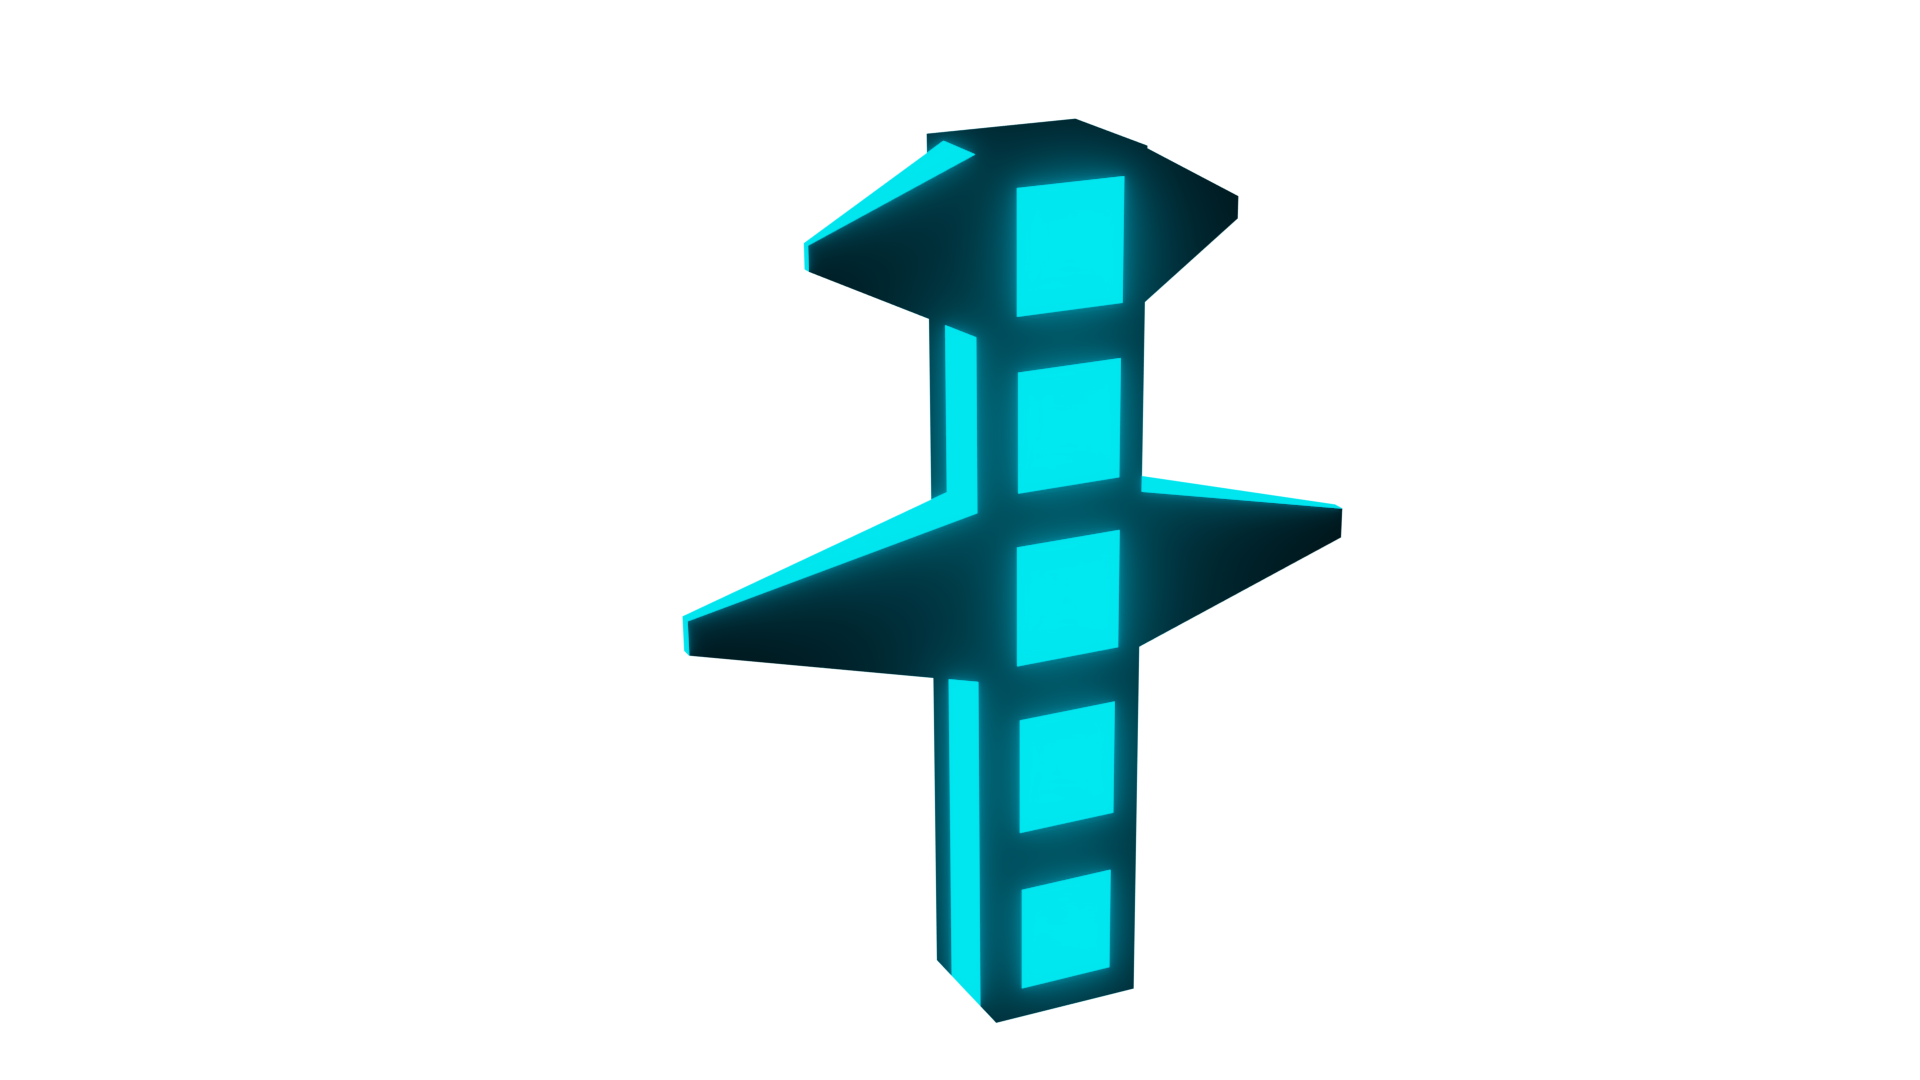
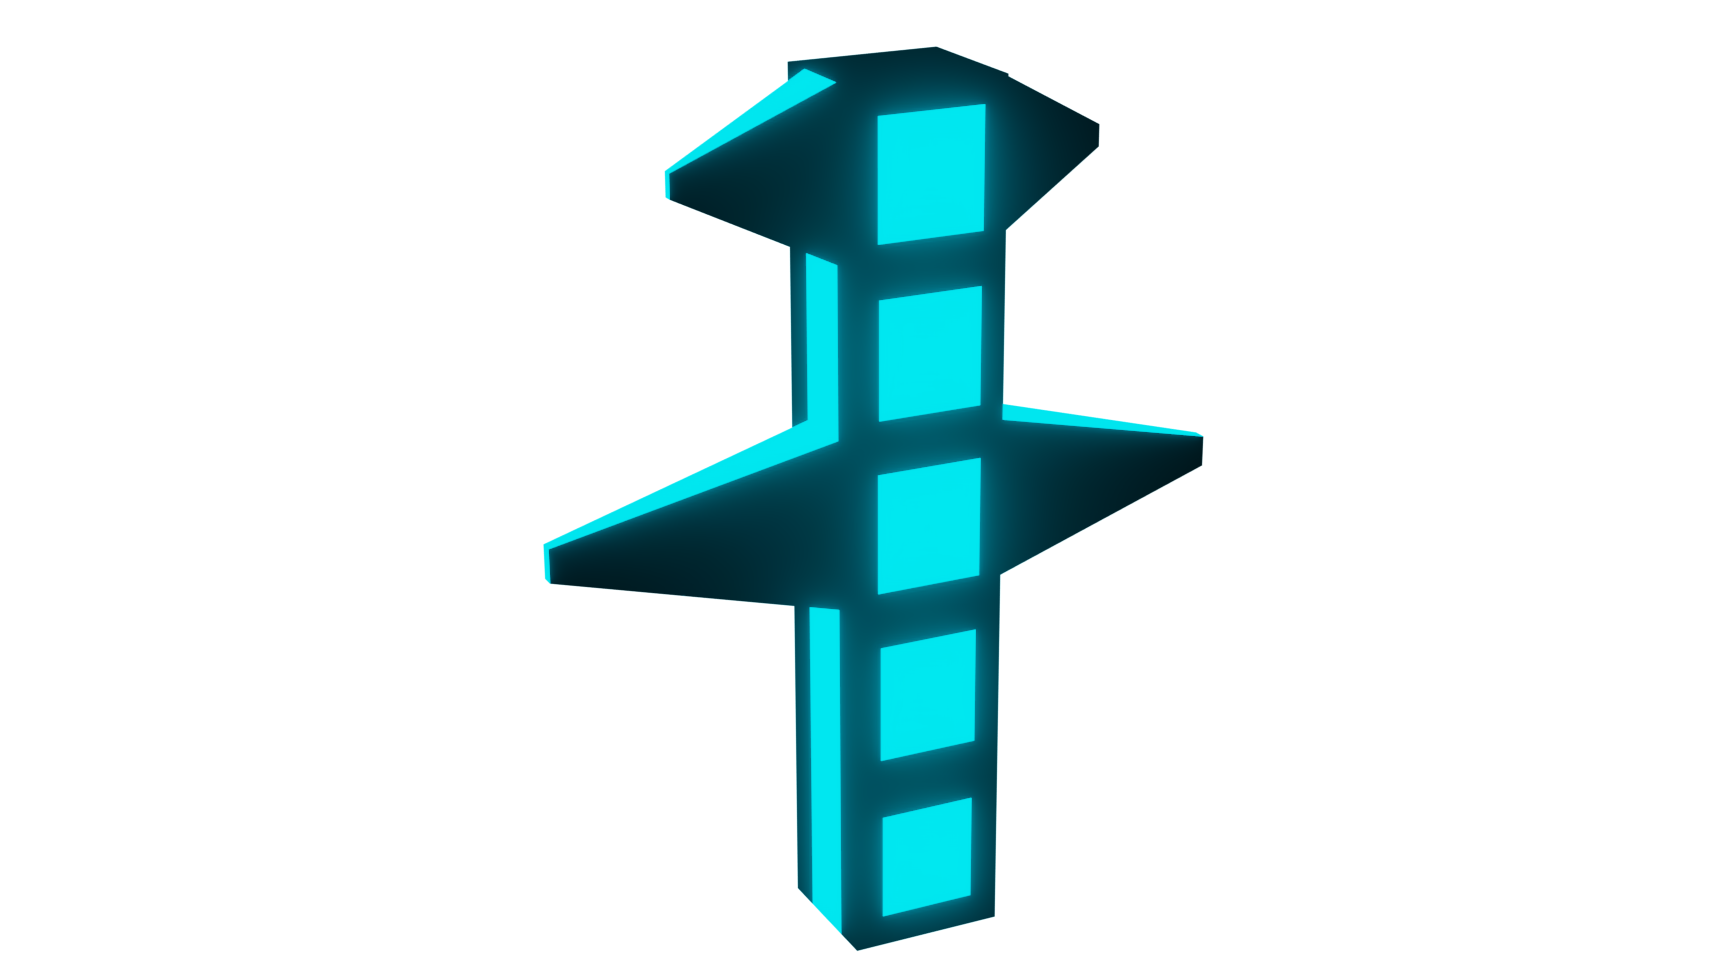
Scaled down eletrartree image and deleted unused images

Changed region(s): [[0.3083, 0.031, 0.7091, 0.9928]]

diff --git a/src/components/IntroComponent1.tsx b/src/components/IntroComponent1.tsx
@@ -1,4 +1,4 @@
-import planetImage from "../images/planet-image.png";
+import planetImage from "../images/planet-image-new.png";
 const IntroComponent1 = (): JSX.Element => {
 
 	return (
